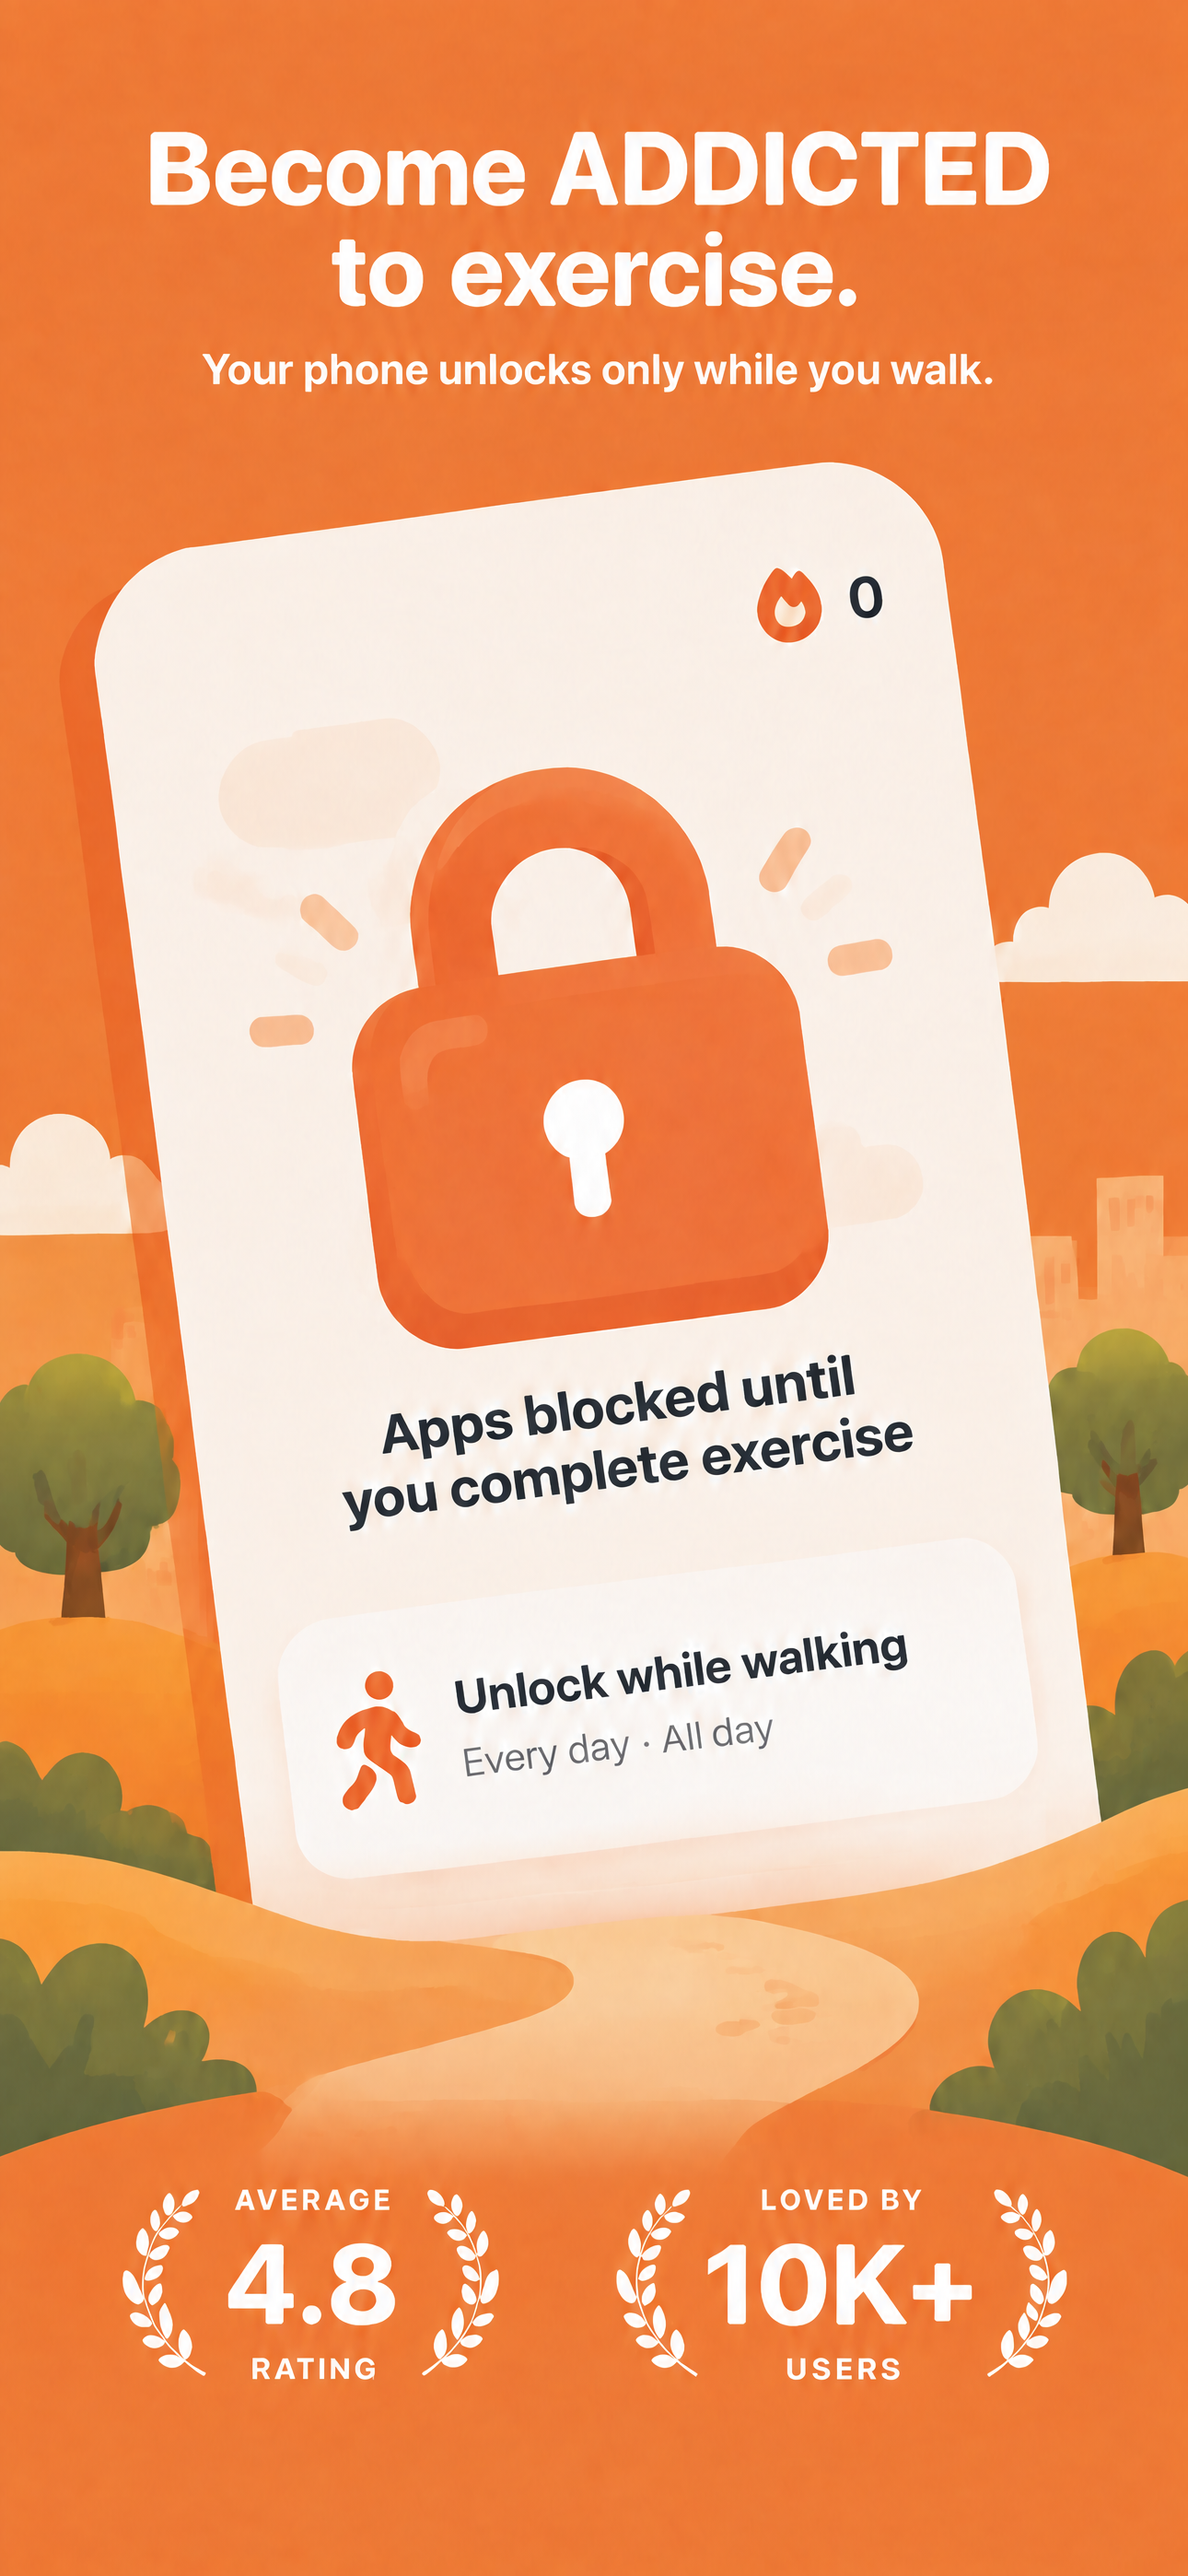
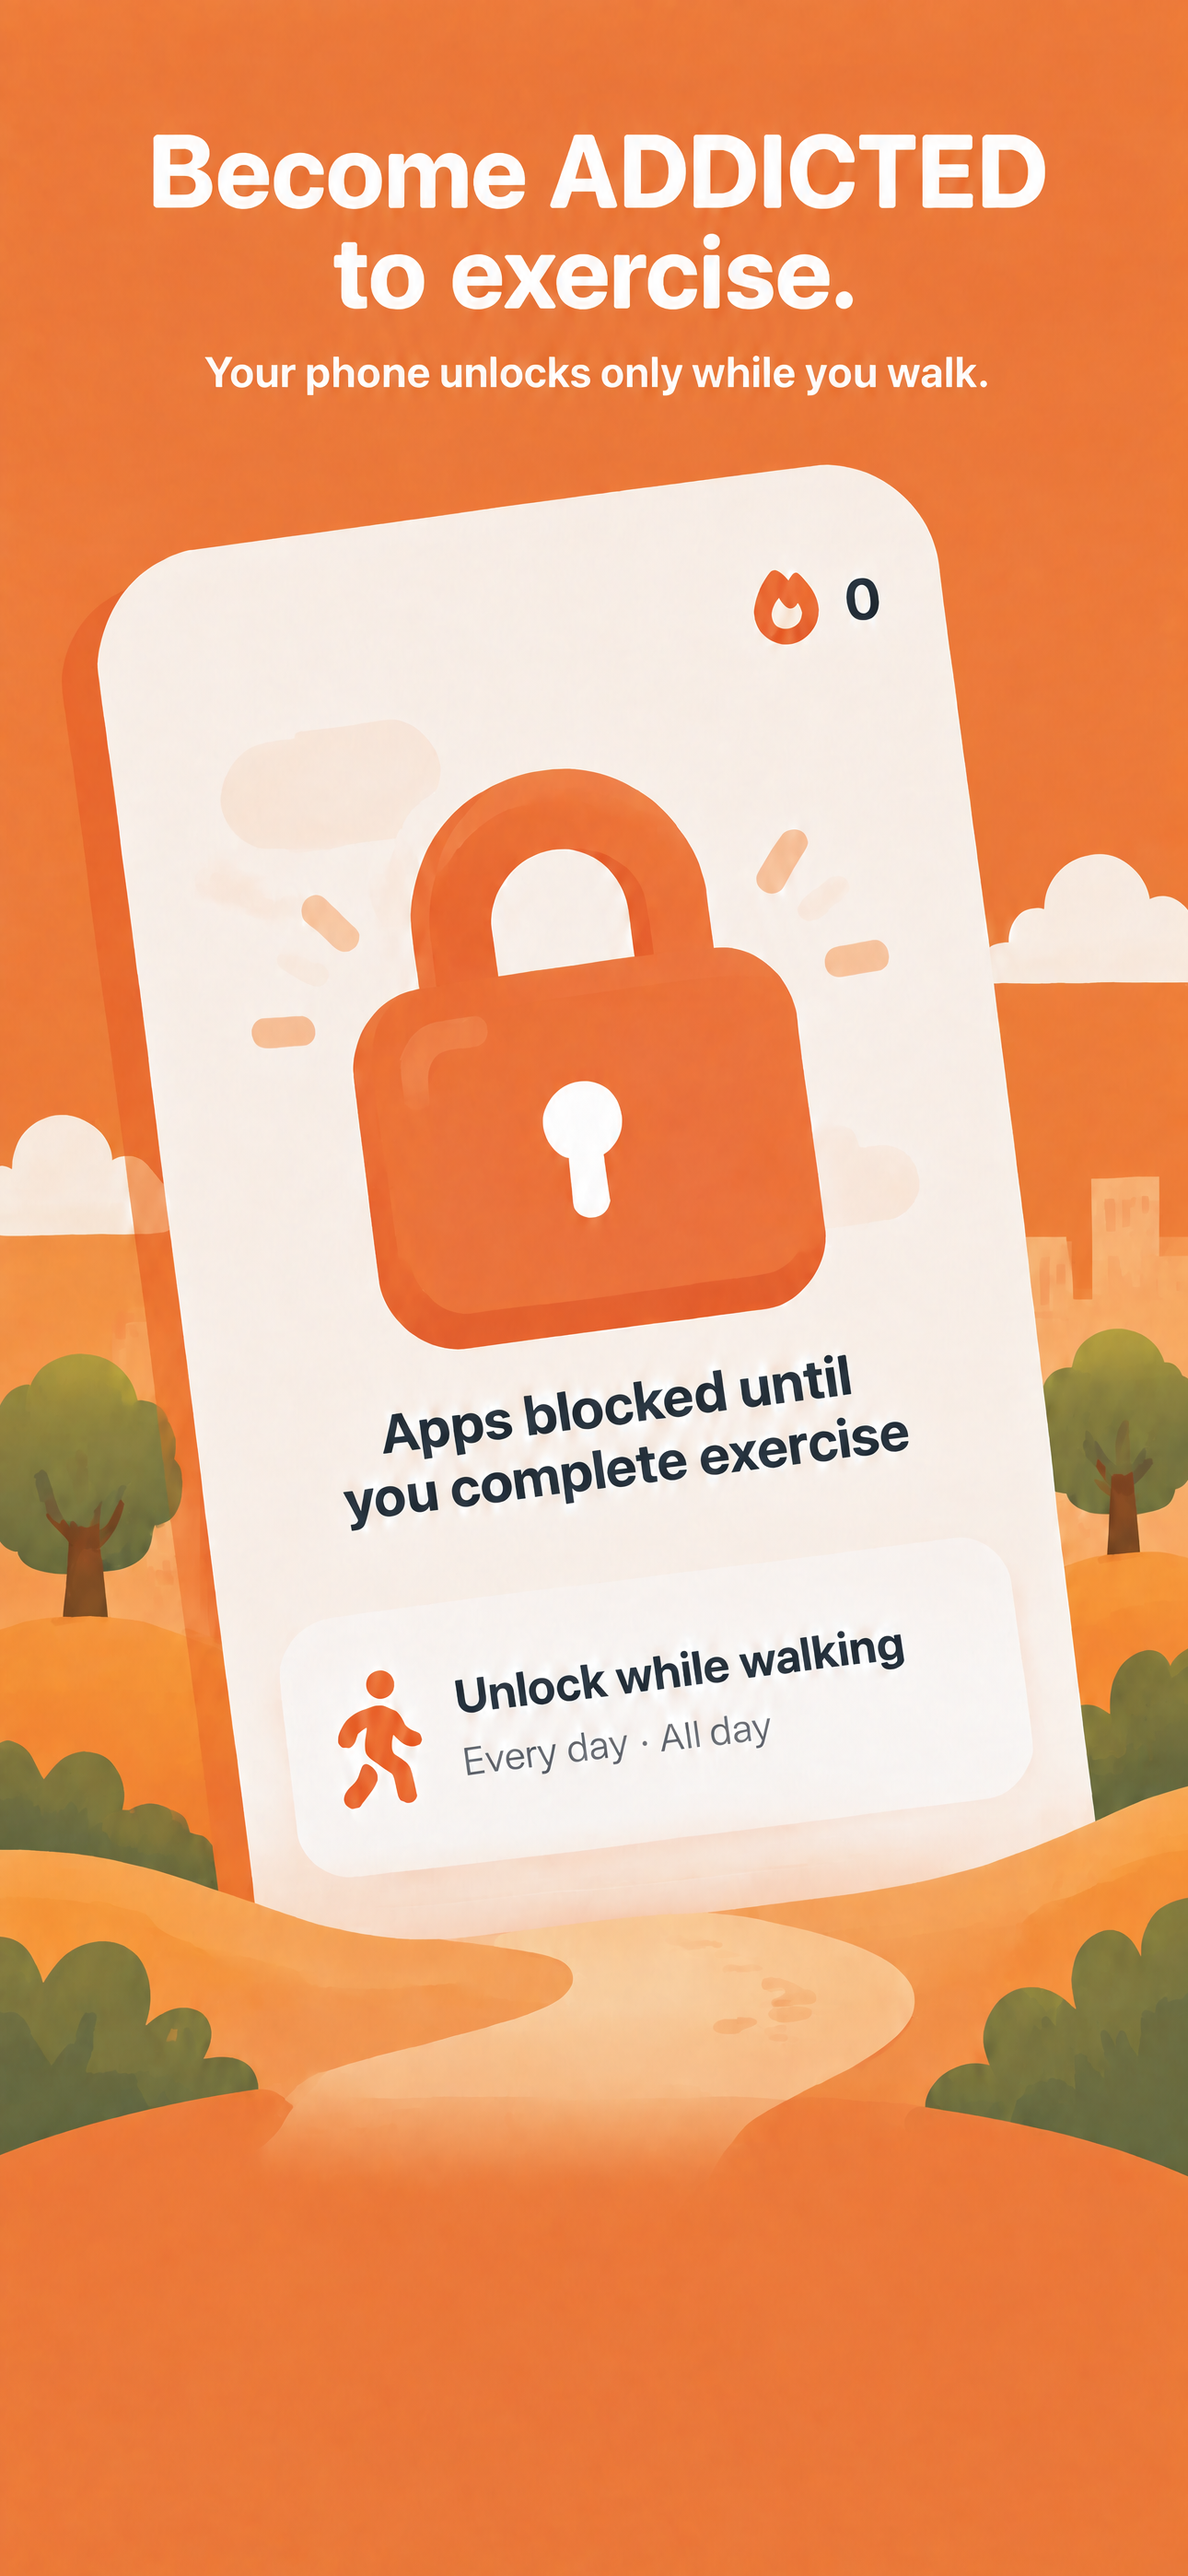
fix(aso): honest screenshots 01/04/06 — drop fabricated ratings, reviews and non-1.0 conditions
01-hero: laurel row (AVERAGE 4.8 RATING / LOVED BY 10K+ USERS) removed.
04-choose-your-rules: 'Steps exchange' and 'Run 5 km' removed, gym time added,
unlock captions corrected to rest-of-day / while-at-gym, subline drops 'run'.
06-reviews: named five-star reviews + laurels replaced by Screen Time and
privacy facts from the approved description.
02/03/05 byte-identical. asc screenshots validate: 6/6 ok, 1290x2796.

diff --git a/app-store-screenshots/README.md b/app-store-screenshots/README.md
@@ -24,3 +24,9 @@ Default screen set (captain may change): problem → promise → how walking wor
 (1290×2796, 6.9" iPhone). Source round: `rounds/r2-unrot/` (GPT Image 2.5 Sunburst, quality low,
 edits of the `html/outline-r1.html` frames; style spec in `STYLE-R2.md`; prompts in `prompts/*-r2.txt`).
 Order: hero → block apps → exercise to unlock → choose your rules → screen time down → reviews.
+
+2026-09-19 honesty pass: 01, 04 and 06 re-edited (`prompts/hero-r2d-edit.txt`, `rules-r2b-edit.txt`,
+`reviews-r2b-edit.txt`; rounds `hero-r2d`, `rules-r2b`, `reviews-r2b`) to drop the unsubstantiated
+rating/user-count laurels and named reviews, the non-1.0 "Steps exchange" / "Run 5 km" conditions and
+the wrong unlock durations. 06 is now the Screen Time / privacy frame. Edit prompts must not contain `;`
+— `gen.py` passes the prompt through `curl -F`, which treats `;` as an option separator and truncates it.
